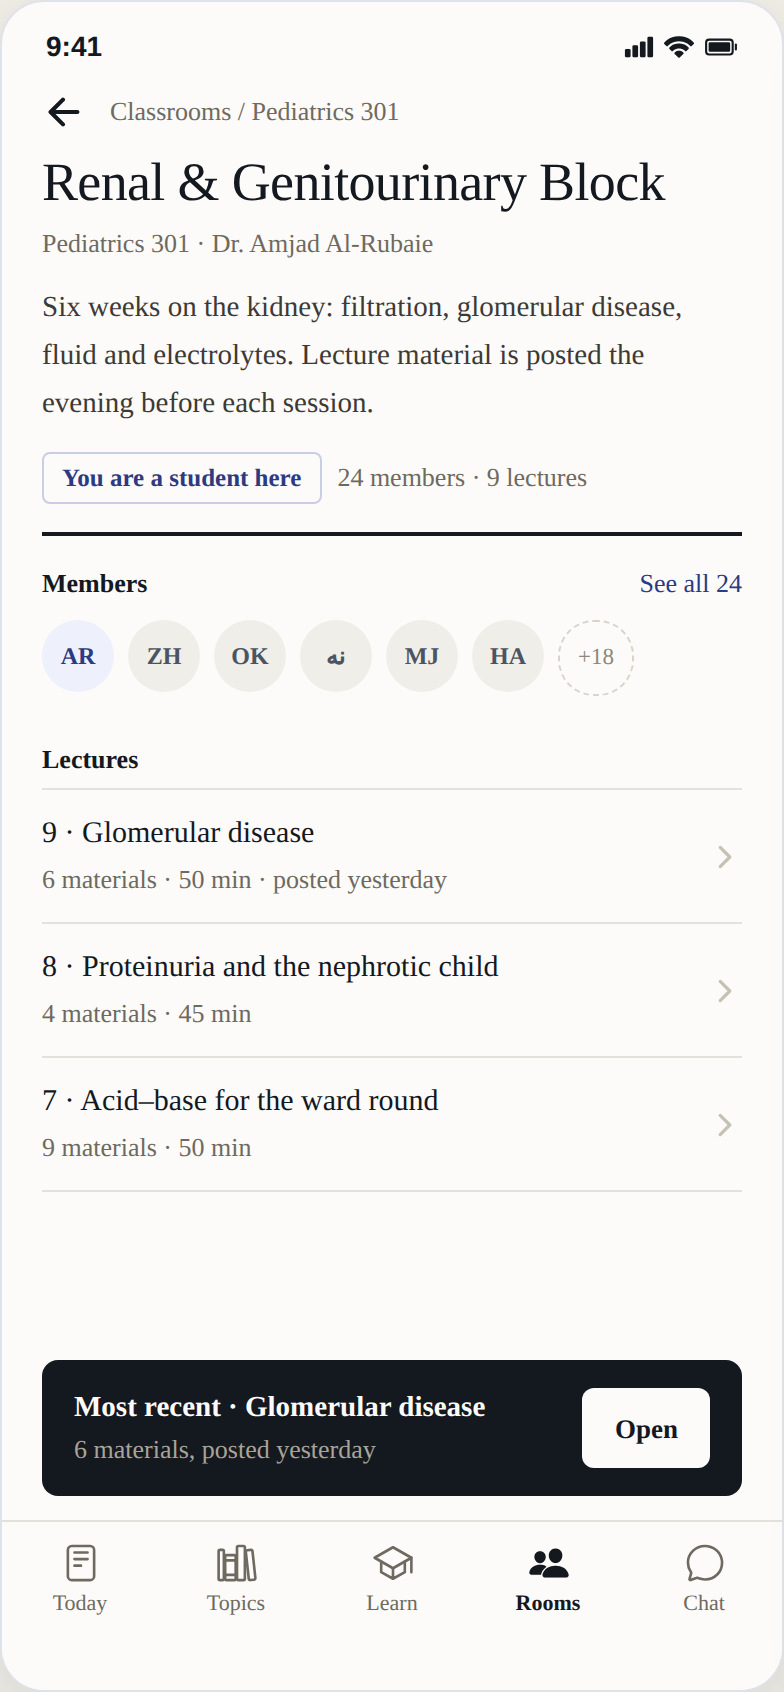
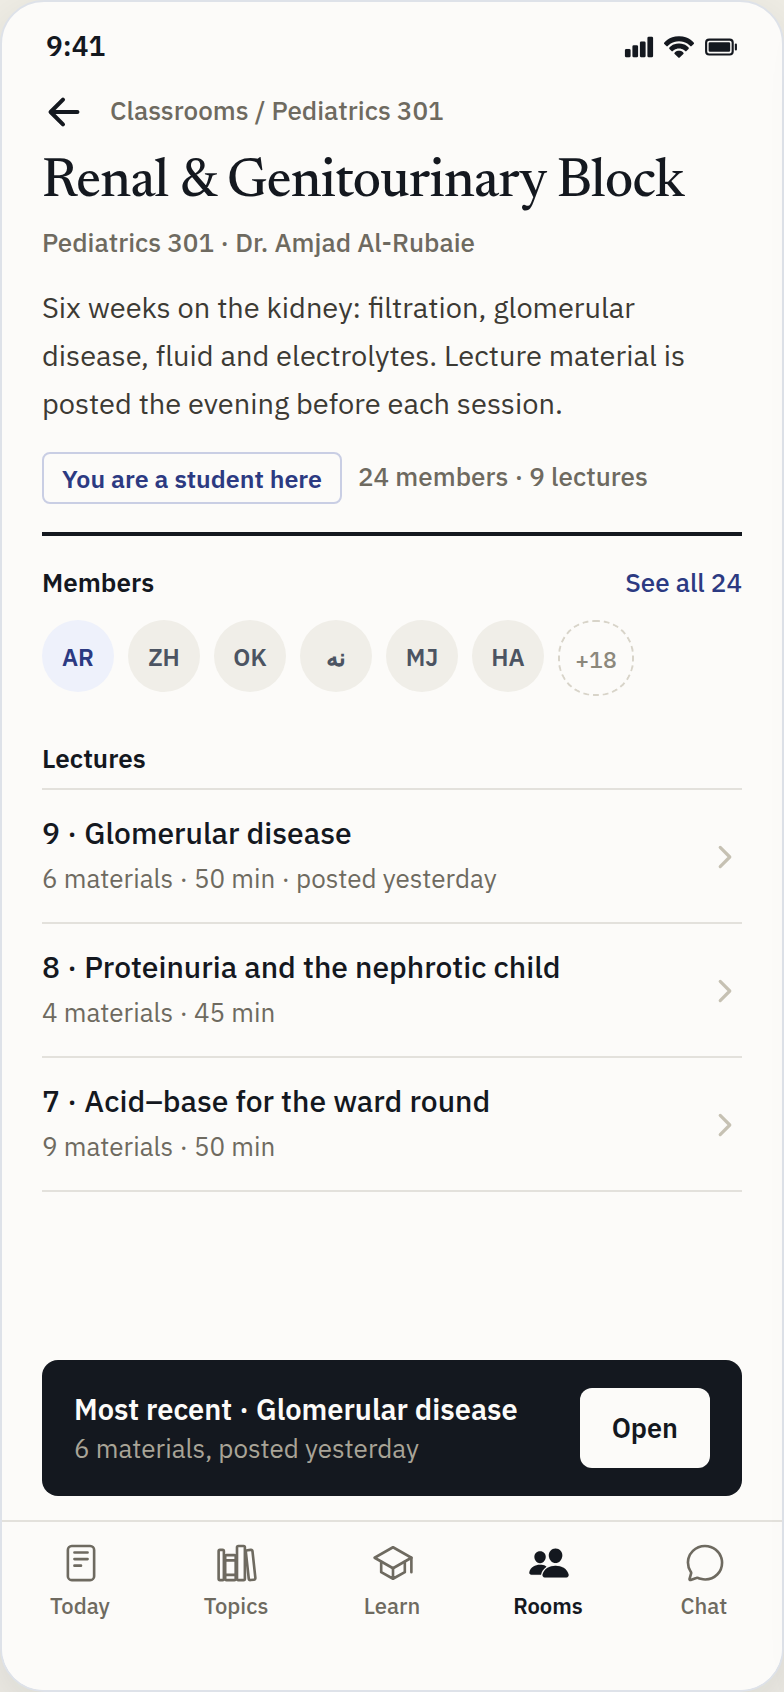
Visual proof at 390 px: the approved frame beside the running screen
The owner asked for a comparison sheet per screen — reference left,
implementation right — at exactly 390 px, plus Arabic for the four screens
turn 3b draws. Fourteen sheets are in `visual-proof/pairs/`.

No application code changed. This adds the capture tool, the sheets and an
index that says how to read them.

The capture is one run of `visual-proof.mjs`, so both halves come from the
same session at the same width rather than from screenshots taken weeks
apart. The reference half is the frozen `.dc.html` rendered in Chromium with
its pinned dependencies answered from disk — jsDelivr and unpkg are
unreachable here, and Chromium's Google Fonts request fails even where curl
succeeds, so React 18.3.1, Babel 7.29.0, ionicons 7.4.0 and the real woff2
files are all served locally. Without that the reference falls back to system
fonts with no icons, and typography — the thing that failed review in the
first place — could not be judged at all.

Frame identity is `FRAME-MAP.md`: turns 3–5 only, turn 6 and turns 1–2 never
opened. `settings` has no left half because no frame for it exists; the sheet
says so rather than borrowing a lookalike.

The index names the three classes of difference that are not fidelity
failures, so the owner is not left to sort them out by eye: the preview
banner (gated scaffolding, absent in production), the fixture dataset (the
reference draws nephrology, the preview draws acid–base), and the six
[…]

diff --git a/student-os/docs/design-handoff/visual-proof/README.md b/student-os/docs/design-handoff/visual-proof/README.md
@@ -1,0 +1,88 @@
+# Visual proof — approved frame beside the running screen
+
+Captured 2026-08-17 from commit `bfbddff`. `FINAL_HANDOFF_LOCKED = YES` ·
+`DESIGN_CHANGED = NO`.
+
+## What these are
+
+`pairs/*.png` — one sheet per screen. **Left is the approved reference frame,
+right is the current implementation.** Both halves are real renders at
+**390 px**, captured in the same run by
+`apps/mobile/e2e/visual-proof.mjs`.
+
+The reference half is the frozen `reference/Student OS V2.dc.html` rendered in
+Chromium at its drawn size, with its pinned dependencies (React 18.3.1, Babel
+standalone 7.29.0, ionicons 7.4.0) and the real Google Fonts woff2 files served
+locally — the sandbox cannot reach jsDelivr or unpkg, and Chromium's request
+for the Google stylesheet fails even where curl succeeds. Without that wiring
+the reference renders in system fonts with no icons, and typography could not
+be judged at all. There are no raster exports of the design; the live page is
+the only visual artefact, as `FRAME-MAP.md` records.
+
+The individual halves are also kept at the top level as `<screen>-reference.png`
+and `<screen>-implemented.png`.
+
+## Frame identity
+
+Per `FRAME-MAP.md`: **turns 3–5 only.** Turn 6 (faculty console) and turns 1–2
+(history) were not opened.
+
+| Sheet | Reference frame | Route | Spec |
+| --- | --- | --- | --- |
+| `home` | 3a[0] | `(tabs)/index` | `11` |
+| `learn` | 3a[1] | `(tabs)/learn` | `12` |
+| `topic` | 3a[2] | `topic/[id]` | `12` |
+| `practice` | 3a[3] | `practice/[topicId]` | `13` |
+| `classroom` | 5a[0] | `classrooms/[id]` | `14` |
+| `messages` | 5b[0] | `(tabs)/chat` | `15` |
+| `search` | 5c[0] | `search` | `16` |
+| `profile` | 5d[0] | `profile/[handle]` | `17` |
+| `compose` | 5d[1] | `compose` | `18` |
+| `settings` | **none — never drawn** | `settings` | `21`, `24` |
+| `home-ar` | 3b[0] | `(tabs)/index` | `22` |
+| `learn-ar` | 3b[1] | `(tabs)/learn` | `22` |
+| `topic-ar` | 3b[2] | `topic/[id]` | `22` |
+| `practice-ar` | 3b[3] | `practice/[topicId]` | `22` |
+
+`settings` has no left half. No frame for it exists — `FRAME-MAP.md`
+§"Specified in writing, never drawn" lists privacy settings among the surfaces
+specified in prose only. The sheet shows the implementation alone and says so,
+rather than borrowing a lookalike from another turn.
+
+## Reading the sheets honestly
+
+Three classes of difference are expected and are **not** fidelity failures.
+They are called out here so the owner is not left to guess which is which.
+
+**1. Preview chrome.** The right half carries the black `Student OS Preview —
+sample data` banner and its `Give feedback` control. That is preview-only
+scaffolding, gated behind `EXPO_PUBLIC_PREVIEW_MODE`; it does not exist in a
+production build and is not part of the design. It also displaces the content
+down by its own height, so vertical positions differ by that much throughout.
+
+**2. Fixture content.** The reference draws a nephrology dataset (Nephrotic
+syndrome, Dr. Amjad Al-Rubaie, `3/7`); the preview world is an acid–base
+dataset (Layla Hassan, `1 of 4`). Different words of different lengths wrap
+differently. Judge composition, hierarchy and type — not which sentence is on
+screen.
+
+**3. Documented spec overrides.** Where a frame and a numbered spec disagree,
+the spec wins (`FRAME-MAP.md`). Each override visible in these sheets:
+
+| Sheet | Visible difference | Why the implementation is right |
+| --- | --- | --- |
+| `home` | Resume band is not pinned above the tab bar | `11` §Behaviour — it scrolls with content |
+| `learn` | Start control is ink, not the frame's teal | `07` — teal is provenance only |
+| `practice` | No `topic · choose one` eyebrow above the stem | `13` §74 entry is band + counter + stem + options; §108 puts classification metadata **after** the stem, never before |
+| `practice` | Counter reads `1 of 4`, not `3/7` | `13` §74 specifies the `1 of N` form |
+| `practice` | Progress segments are ink on the band, not teal | `07` — teal is provenance only |
+| `messages` | Permanent "live delivery is unavailable" line, not "Reconnecting" | `BLOCKED_CAPABILITIES` — the host cannot hold a socket, so "reconnecting" would be untrue |
+
+Everything else is the comparison the owner asked for.
+
+## Reproducing
+
+```
+# reference on 8099, preview build on 8081, both local and fixture-only
+node apps/mobile/e2e/visual-proof.mjs
+```
